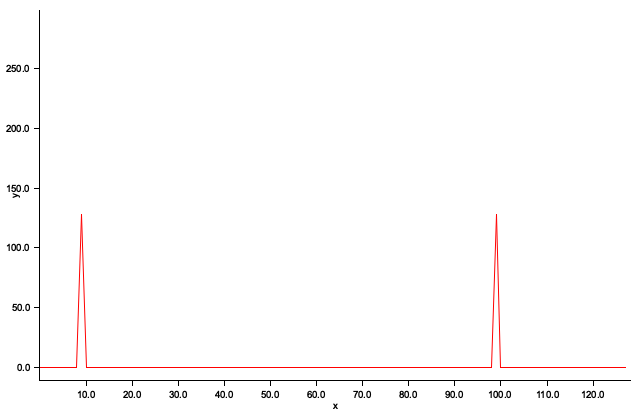
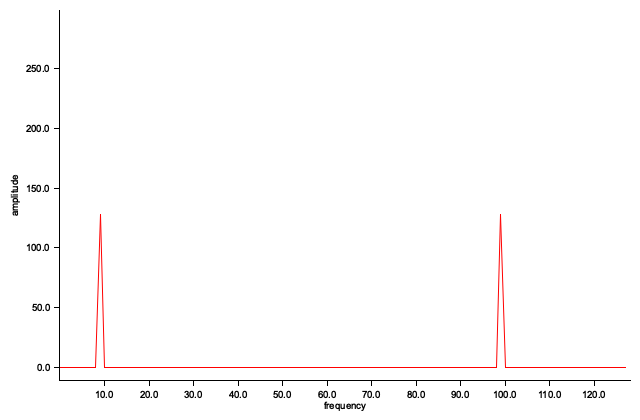
Change axis labels

diff --git a/src/utils.rs b/src/utils.rs
@@ -9,15 +9,15 @@ pub fn plot_signal(signal: &[f64], title: &str, y_range: Range<f64>) -> Result<(
     let mut chart = ChartBuilder::on(&root)
         .margin(10)
         .x_label_area_size(30)
-        .y_label_area_size(30)
+        .y_label_area_size(50)
         .build_cartesian_2d(0.0f64..(signal.len() as f64), y_range)?;
 
     chart
         .configure_mesh()
         .x_labels(20)
         .y_labels(10)
-        .x_desc("x")
-        .y_desc("y")
+        .x_desc("time")
+        .y_desc("amplitude")
         .disable_mesh()
         .draw()?;
 
@@ -56,7 +56,33 @@ pub fn plot_spectrum(
     abs_spectrum = abs_spectrum.into_iter().take(n / 2).collect::<Vec<_>>();
     abs_spectrum.reverse();
 
-    plot_signal(&abs_spectrum, title, -10.0..300.0)
+    let root = BitMapBackend::new(title, (640, 420)).into_drawing_area();
+    root.fill(&WHITE)?;
+
+    let mut chart = ChartBuilder::on(&root)
+        .margin(10)
+        .x_label_area_size(30)
+        .y_label_area_size(50)
+        .build_cartesian_2d(0.0f64..(abs_spectrum.len() as f64), -10.0..300.0)?;
+
+    chart
+        .configure_mesh()
+        .x_labels(20)
+        .y_labels(10)
+        .x_desc("frequency")
+        .y_desc("amplitude")
+        .disable_mesh()
+        .draw()?;
+
+    chart.draw_series(LineSeries::new(
+        abs_spectrum.iter().enumerate().map(|(i, s)| (i as f64, *s)),
+        &RED,
+    ))?;
+
+    chart.configure_series_labels().draw()?;
+
+    root.present()?;
+    Ok(())
 }
 
 #[cfg(test)]
